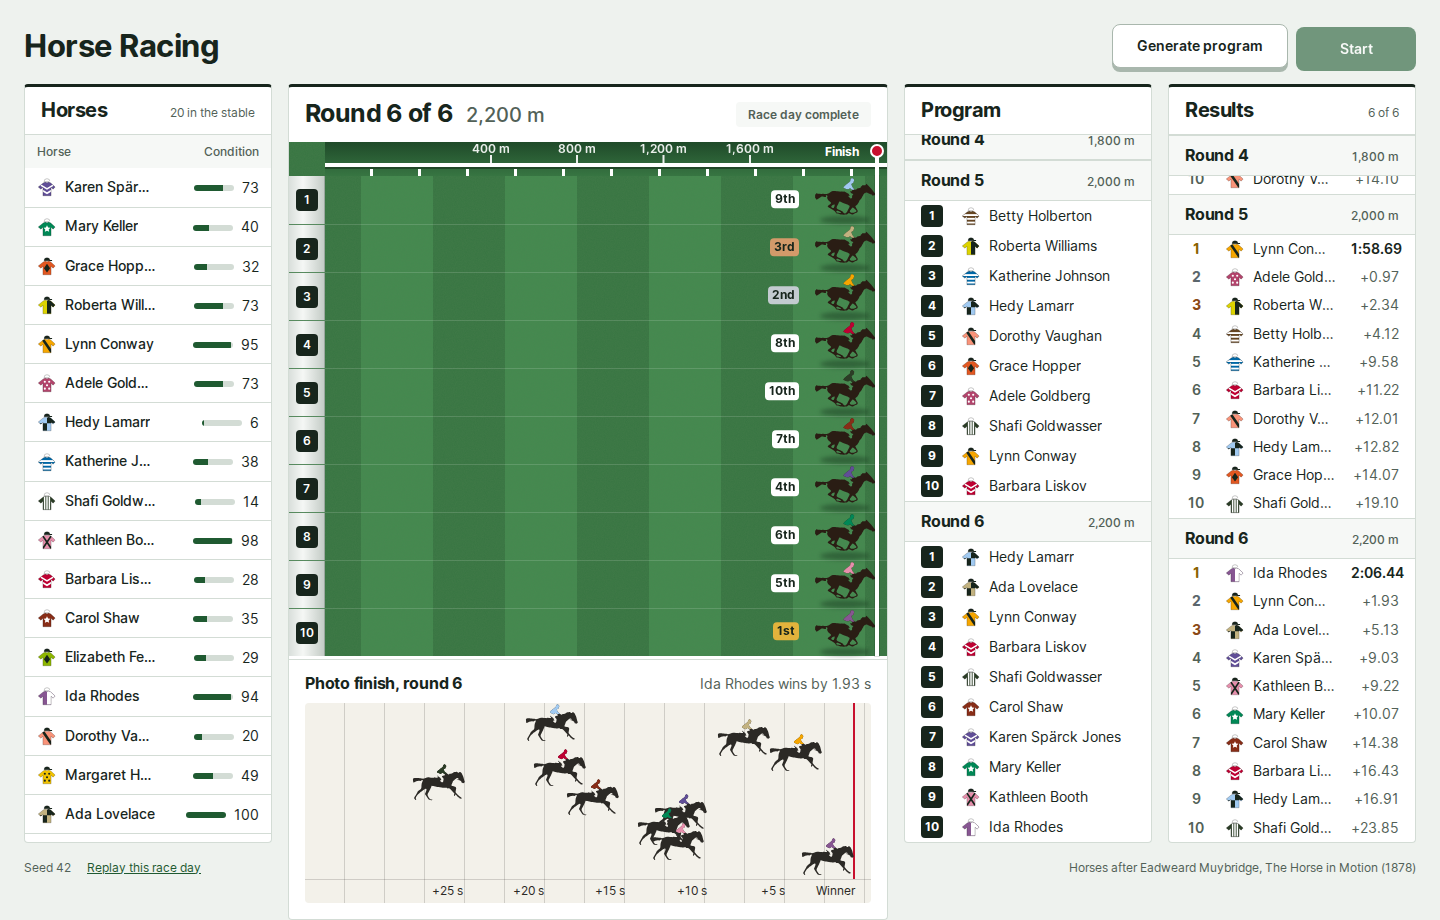
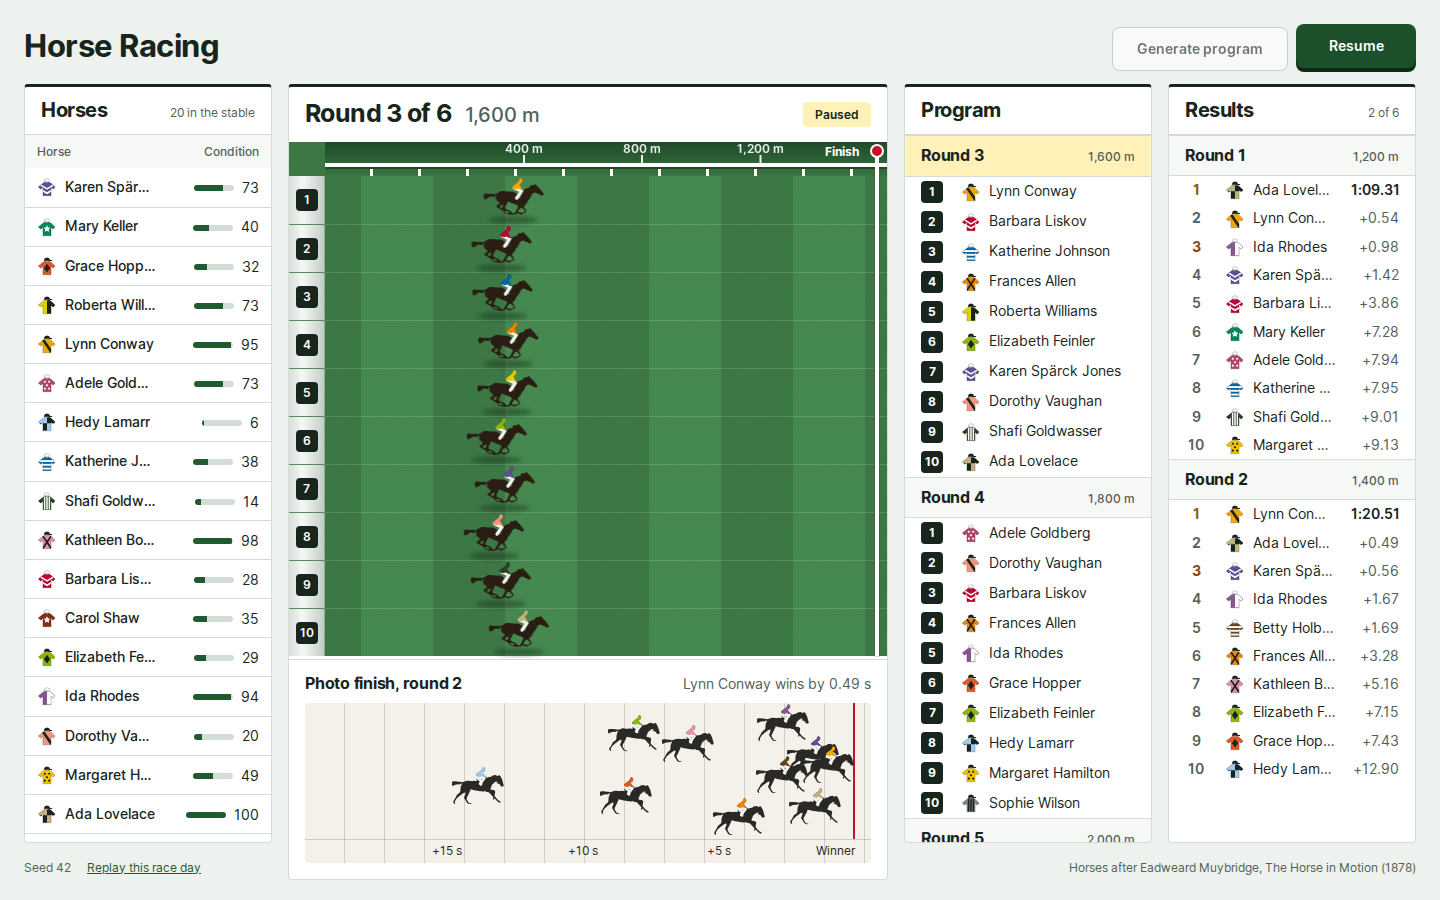
chore: prepare the repository for publishing
Drop the GitHub Pages workflow in favour of a Vercel deployment, run the E2E
job on an arm64 runner to match the visual baselines, add a favicon, refresh
the README screenshot and map the brief to the code in the README.

Changed region(s): [[0.0, 0.0, 1.0, 1.0], [0.2812, 0.84, 0.3438, 0.9022]]

diff --git a/index.html b/index.html
@@ -4,6 +4,7 @@
     <meta charset="UTF-8" />
     <meta name="viewport" content="width=device-width, initial-scale=1.0" />
     <meta name="description" content="Interactive horse racing game built with Vue 3 and Pinia." />
+    <link rel="icon" href="/favicon.svg" type="image/svg+xml" />
     <title>Horse Racing</title>
   </head>
   <body>

diff --git a/vite.config.ts b/vite.config.ts
@@ -3,9 +3,7 @@ import { fileURLToPath, URL } from 'node:url'
 import vue from '@vitejs/plugin-vue'
 import { defineConfig } from 'vite'
 
-// BASE_PATH lets the same build run locally ("/") and on GitHub Pages ("/<repo>/").
 export default defineConfig({
-  base: process.env.BASE_PATH ?? '/',
   plugins: [vue()],
   resolve: {
     alias: {

diff --git a/README.md b/README.md
@@ -1,27 +1,51 @@
 # Horse Racing
 
-An interactive horse racing game built with **Vue 3, TypeScript and Pinia**: generate a
+An interactive horse racing game built with **Vue 3, TypeScript and Pinia**. Generate a
 race program, start it, and watch six rounds run one after another, with results arriving
 as each round finishes.
 
-**Live demo:** https://huseyiniriss.github.io/insider-horse-racing/
+![Race day, round 3 paused: the stable, the track with the photo finish of round 2, the program and results](docs/screenshot.png)
 
-![Race day: the stable, the track with a photo-finish print, the program and results](docs/screenshot.png)
+## How to play
 
-## Features
+1. **Generate program** draws six rounds of ten horses each from the stable of 20.
+2. **Start** runs the rounds one at a time. **Pause** freezes every horse where it is;
+   **Resume** carries on from the same frame.
+3. Each result appears in **Results** the moment its round finishes, followed by a photo
+   finish of the field.
+4. When all six rounds are done, generate a new program and race again.
 
-- **20 horses**, each with a unique color worn as racing **silks**, and a condition of 1–100.
-- **Generate program:** six rounds (1200 → 2200 m), ten horses drawn at random per round.
-- **Start / Pause / Resume:** rounds run one at a time; pause freezes every horse exactly
-  where it is.
-- **Results** per round, racecard style: the winner's time, then the gap for everyone behind.
-- **Animated horses** traced from Eadweard Muybridge's _The Horse in Motion_ (1878), in a
-  broadcast-style racecourse with starting stalls, distance markers and a winning post.
-- **Photo finish** after every round, built from the same finish times as the result.
-- **Replayable:** one seed reproduces a whole session; the footer links the program on
-  screen (`?seed=42&program=3`).
-- Responsive (phone, tablet, desktop), keyboard accessible, screen-reader announcements,
-  reduced-motion support.
+The footer shows the session's seed. **Replay this race day** opens the same horses and
+the same program, so any race can be watched again exactly as it ran.
+
+## The brief, mapped to the code
+
+| The brief asks for                                       | Where it lives                                                  |
+| -------------------------------------------------------- | --------------------------------------------------------------- |
+| 20 horses, each with a unique color and condition 1–100  | `features/horses/domain/generate-horses.ts`, `horse-palette.ts` |
+| Generate: 6 rounds, 10 random horses from the 20 each    | `features/race/domain/schedule.ts`, `race.rules.ts`             |
+| Distances 1200, 1400, 1600, 1800, 2000, 2200 m, in order | `features/race/domain/race.rules.ts`                            |
+| Start / Pause, rounds run one at a time                  | `features/race/store/race.store.ts`, `domain/race-status.ts`    |
+| Horses move on the track                                 | `features/race/components/RaceTrack.vue`, `TrackLane.vue`       |
+| Results per round, in the Results panel                  | `features/race/components/ResultsPanel.vue`                     |
+| Horse list, program and results side by side             | `app/App.vue`, `HorseList.vue`, `ProgramPanel.vue`              |
+| Pinia for state, component-based design                  | `features/*/store`, `features/*/components`                     |
+| Bonus: unit, E2E and visual tests                        | `src/**/*.spec.ts`, `e2e/`                                      |
+
+Each rule of the brief has a unit test named after it (`rule: …`), so breaking a rule
+fails exactly the test that describes it.
+
+## Beyond the brief
+
+Small, self-contained additions; removing any of them leaves the core untouched.
+
+- **Real gallop.** The horses are traced from Eadweard Muybridge's _The Horse in Motion_
+  (1878) and animated as CSS sprites, with jockeys in their horse's silks.
+- **Broadcast-style track** with starting stalls, distance markers and a winning post.
+- **Photo finish** after every round, drawn from the same finish times as the result.
+- **Replayable sessions** from a seed in the URL (`?seed=42&program=3`).
+- **Accessible:** responsive from phone to desktop, keyboard operable, race commentary
+  for screen readers, reduced-motion support, and an axe check in the E2E suite.
 
 ## Quick start
 
@@ -45,7 +69,7 @@ npm run dev          # http://localhost:5173
 | `npm run sprites`                   | Rebuild the gallop sprites from the traced frames       |
 
 Visual baselines are platform-specific, so they are generated and checked inside the
-official Playwright Docker image (the same one CI uses). The `:docker` scripts need Docker.
+official Playwright Docker image, the same one CI uses. The `:docker` scripts need Docker.
 
 ## Architecture
 
@@ -83,14 +107,15 @@ The reasoning, alternatives and trade-offs are in the
 | E2E       | Playwright (desktop + mobile) | Generate, start, pause/resume, full race day, replay, axe check |
 | Visual    | Playwright screenshots        | Idle, ready, paused and finished states with a frozen clock     |
 
-Tests named `rule: …` map one-to-one to the requirements in the brief. Everything runs
-from a fixed seed, so results are deterministic.
+Everything runs from a fixed seed and a controlled clock, so results are deterministic.
+CI runs the quality gate first, then the E2E, accessibility and visual tests.
 
 ## Assumptions
 
 The brief leaves a few points open; these are the choices made:
 
-1. The game always has 20 horses; "a list of 1–20 horses" is read as the size of the stable, which the rules fix at 20.
+1. The game always has 20 horses; "a list of 1–20 horses" is read as the size of the
+   stable, which the rules fix at 20.
 2. Condition makes a horse faster on average, but form and luck still matter: a much
    fitter horse almost always wins, a slightly fitter one only more often.
 3. Condition stays the same for the whole session.

diff --git a/docs/decisions/0006-testing-strategy.md b/docs/decisions/0006-testing-strategy.md
@@ -18,8 +18,8 @@ A pyramid, all of it deterministic thanks to seeds:
   frame-rate independence, finished horses always rank ahead) and statistically
   (condition matters, luck still plays a part).
 - Visual baselines are committed (`e2e/__screenshots__/`) and generated in the official
-  Playwright Docker image, the same Linux environment CI uses, so fonts and
-  anti-aliasing match (`npm run test:visual:update:docker`).
+  Playwright Docker image on arm64, the same image and architecture the CI E2E job
+  runs on, so fonts and anti-aliasing match (`npm run test:visual:update:docker`).
 - Coverage has a floor in `vitest.config.ts`; CI fails if it drops.
 
 ## Consequences
